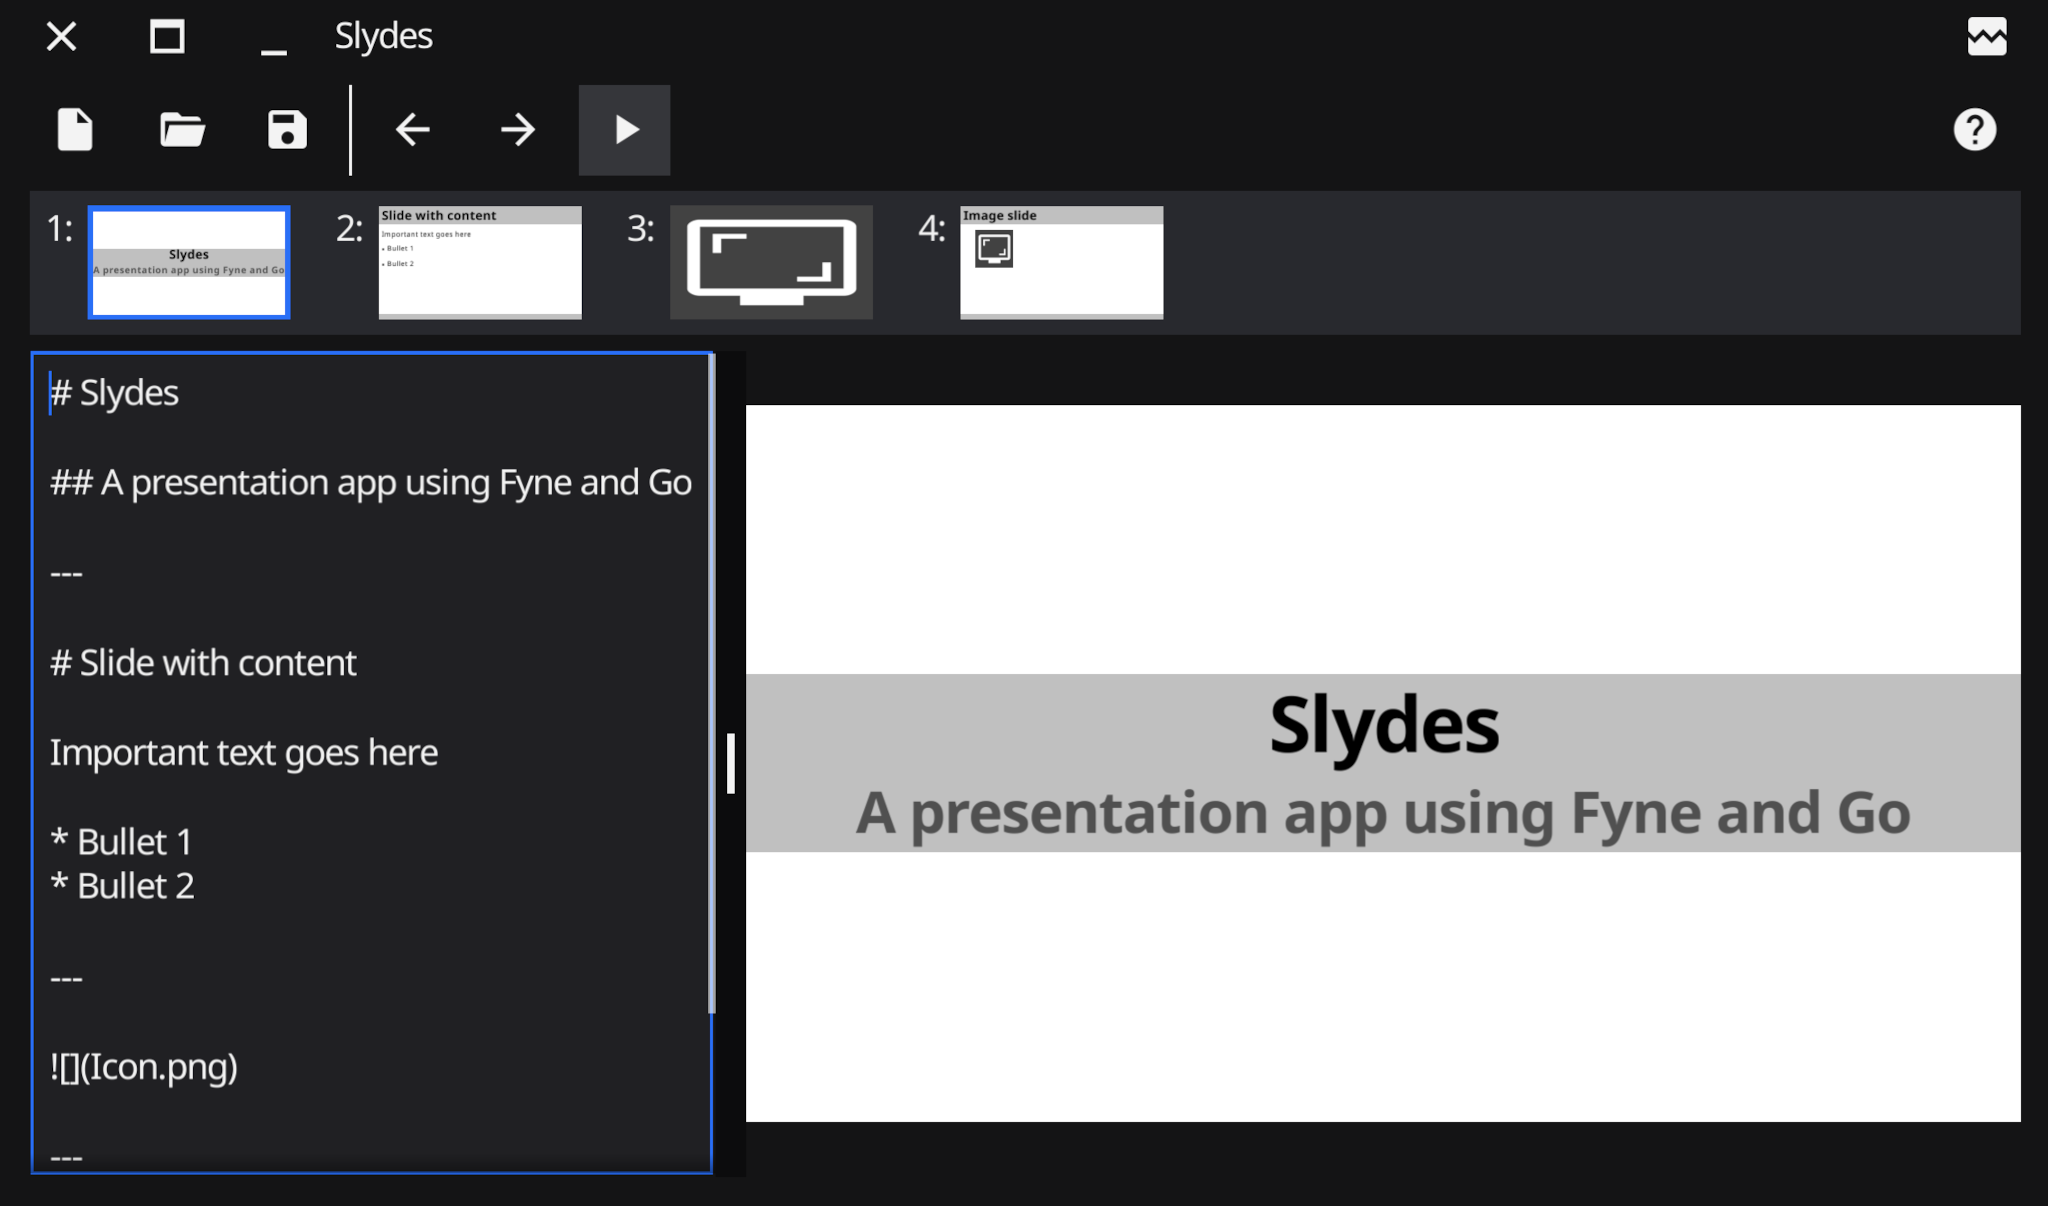
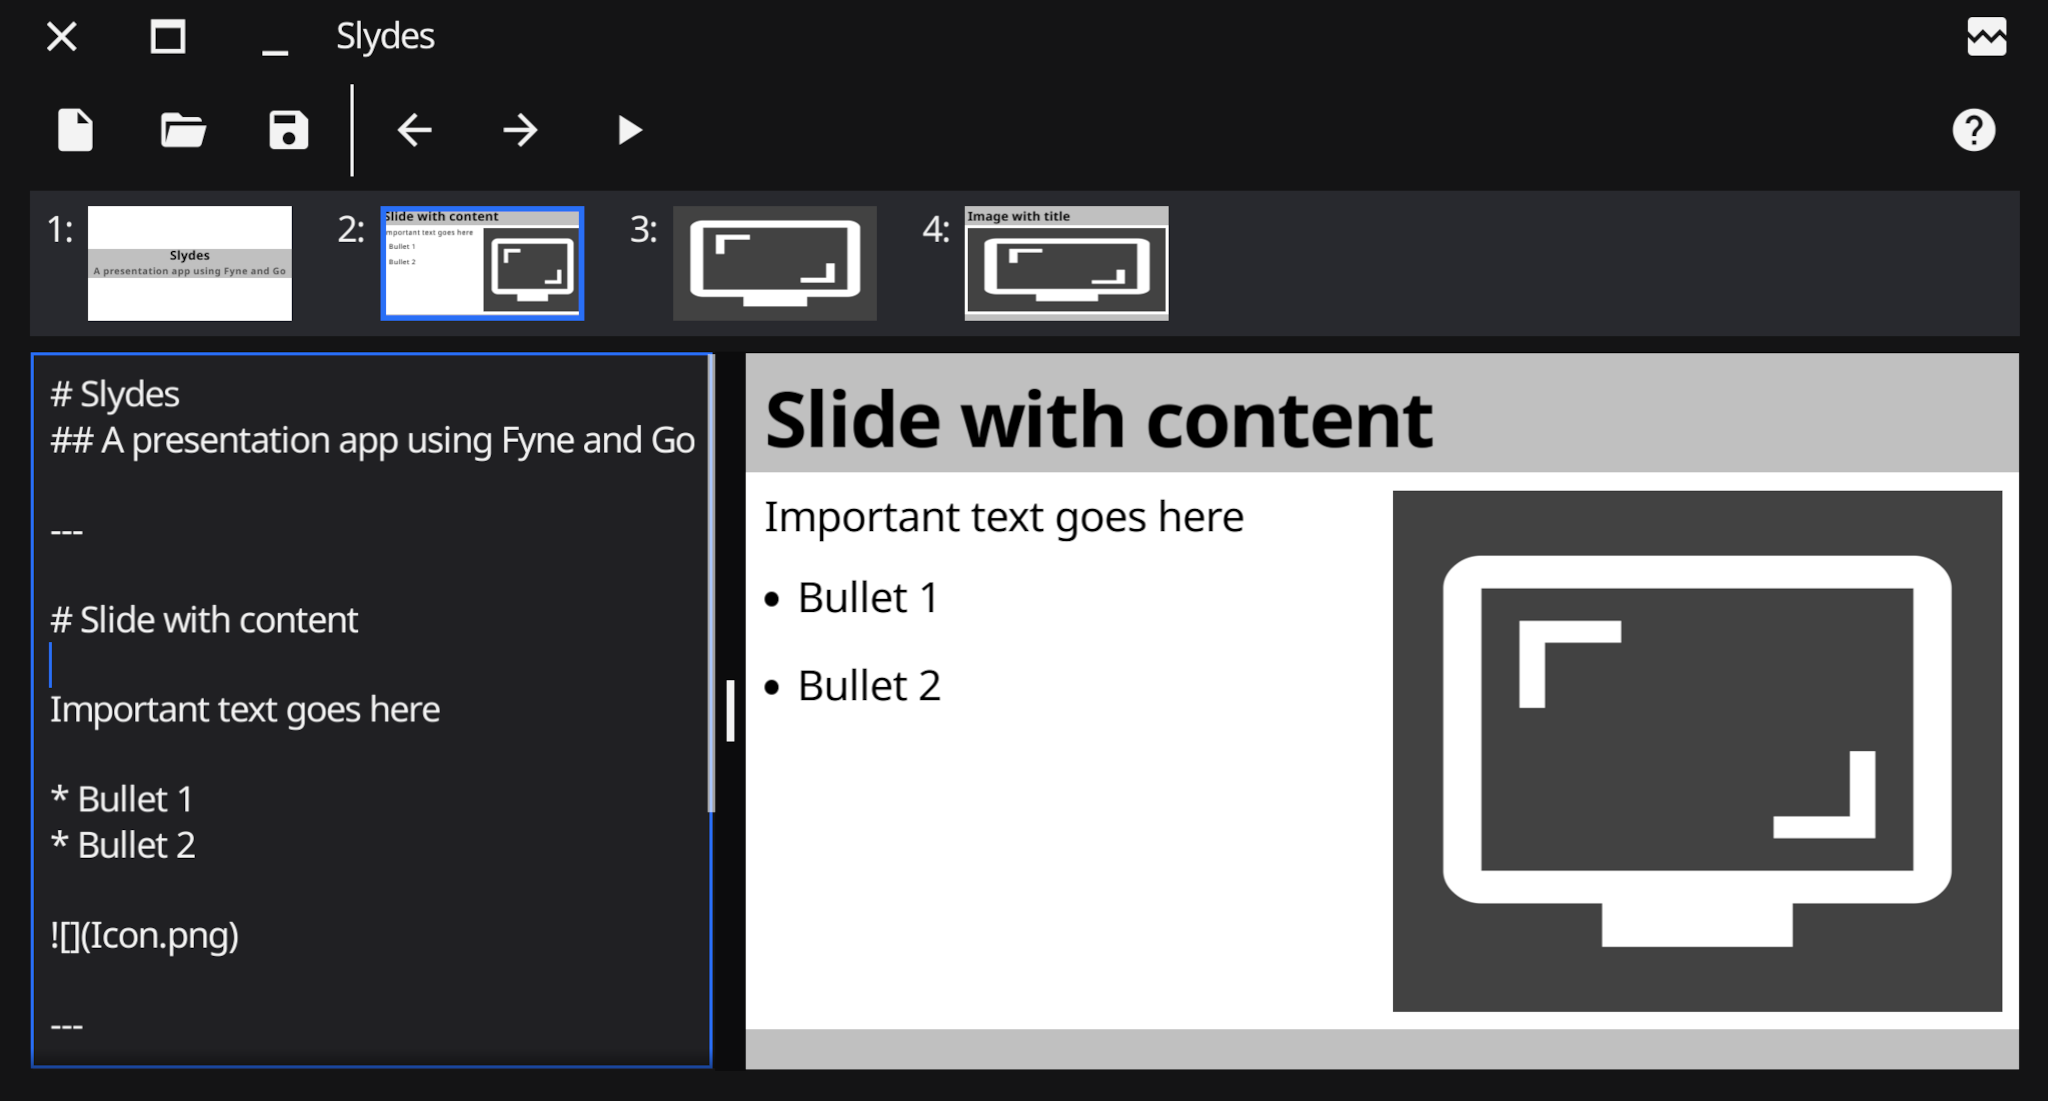
Add a slide-by-side 2 part layout

diff --git a/slidelayout.go b/slidelayout.go
@@ -2,7 +2,6 @@ package main
 
 import (
 	"fyne.io/fyne/v2"
-	"fyne.io/fyne/v2/canvas"
 	"fyne.io/fyne/v2/theme"
 )
 
@@ -60,31 +59,20 @@ func (s *slide) layoutFallback(size fyne.Size, scale float32) {
 		s.heading.TextSize = theme.TextHeadingSize() * scale
 		s.heading.Move(fyne.NewPos(pad, pad))
 		s.heading.Refresh()
-		y += s.heading.MinSize().Height + theme.InnerPadding()*scale
+		y += s.heading.MinSize().Height //+ pad
 	}
+	subPad := float32(0)
 	if s.subheading != nil {
 		skip++
 		s.subheading.TextSize = theme.TextSubHeadingSize() * scale
 		s.subheading.Move(fyne.NewPos(pad, y))
 		s.subheading.Refresh()
-		y += s.subheading.MinSize().Height + theme.InnerPadding()*scale
+		subPad = s.subheading.MinSize().Height
 	}
 
-	// TODO split/layout not just stack
-	for _, o := range s.content.Objects[skip:] {
-		switch t := o.(type) {
-		case *canvas.Image:
-			t.FillMode = canvas.ImageFillContain
-			t.SetMinSize(fyne.NewSize(128*scale, 80*scale)) // TODO remove once we layout properly
-		case *canvas.Text:
-			t.TextSize = theme.TextSize() * scale
-		case slideWidget:
-			t.setScale(scale)
-		}
-		o.Move(fyne.NewPos(pad, y))
-		o.Resize(o.MinSize())
-		y += o.MinSize().Height + theme.Padding()*scale
-	}
+	contentSize := size.SubtractWidthHeight(pad*2, size.Height/9*2+subPad+pad*2)
+	contentPos := fyne.NewPos(pad, size.Height/6+subPad+pad)
+	layoutContent(s.content.Objects[skip:], scale, contentSize, contentPos)
 }
 
 func (s *slide) layoutImage(size fyne.Size) {

diff --git a/slideutil.go b/slideutil.go
@@ -1,0 +1,48 @@
+package main
+
+import (
+	"fyne.io/fyne/v2"
+	"fyne.io/fyne/v2/canvas"
+	"fyne.io/fyne/v2/theme"
+)
+
+func layoutContent(objs []fyne.CanvasObject, scale float32, size fyne.Size, pos fyne.Position) {
+	splitAt := -1
+	for i, o := range objs {
+		if _, ok := o.(*canvas.Image); ok {
+			splitAt = i
+		}
+	}
+
+	pad := theme.Padding() * scale
+	width := size.Width
+	if splitAt > -1 && len(objs) > 1 {
+		width = (width - pad)/2
+	}
+	x := pos.X
+	y := pos.Y
+	if splitAt == 0 {
+		x = x + width + pad
+	}
+	for i, o := range objs {
+		switch t := o.(type) {
+		case *canvas.Text:
+			t.TextSize = theme.TextSize() * scale
+		case slideWidget:
+			t.setScale(scale)
+		}
+
+		if splitAt == i {
+			o.Resize(fyne.NewSize(width, size.Height))
+			if splitAt == 0 {
+				o.Move(fyne.NewPos(pos.X, pos.Y))
+			} else {
+				o.Move(fyne.NewPos(x + width + pad, pos.Y))
+			}
+		} else {
+			o.Move(fyne.NewPos(x, y))
+			o.Resize(fyne.NewSize(width, o.MinSize().Height))
+			y += o.MinSize().Height + pad
+		}
+	}
+}

diff --git a/parse.go b/parse.go
@@ -61,7 +61,7 @@ func (p *parser) Render(_ io.Writer, source []byte, n ast.Node) error {
 				}
 			case "Paragraph":
 				// if p.blockquote // TODO
-				if !p.list {
+				if !p.list && tmpText != "" {
 					p.c.content = append(p.c.content, canvas.NewText(tmpText, color.Black))
 				}
 			case "ListItem":
